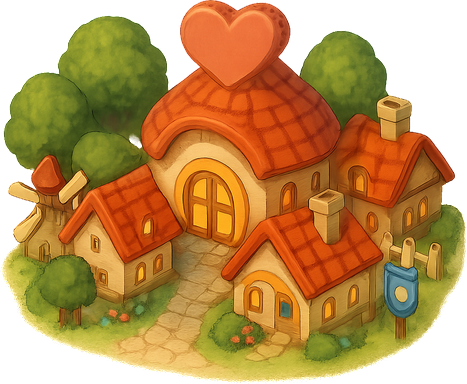
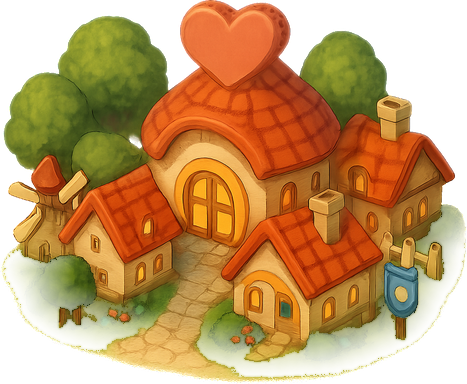
Miasteczko na mapie wtopione w teren
Jasny talerz trawy pod miasteczkiem blednie ku krawędzi i ciemnieje do
barwy trawy z mapy (tools/wtop_podstawe.py), zamiast odcinać się jak
naklejka.

Claude-Session: https://claude.ai/code/session_01MVogJn4DB8sWmRV7qMJoQR

diff --git a/tools/wtop_podstawe.py b/tools/wtop_podstawe.py
@@ -1,0 +1,33 @@
+# Wtapia podstawę budowli w teren: trawiasty „talerz" pod budynkami blednie ku krawędzi.
+# Użycie: python3 tools/wtop_podstawe.py wejscie.png wyjscie.png [szerokość zaniku w px, domyślnie 34]
+# Uruchamiać na obrazku z wsadu (tools/wsad_wczytaj.py), nie drugi raz na wyniku.
+import sys, numpy as np
+from PIL import Image
+from scipy import ndimage
+src, dst = sys.argv[1], sys.argv[2]
+szer = float(sys.argv[3]) if len(sys.argv) > 3 else 34
+im = np.asarray(Image.open(src).convert('RGBA')).astype(np.float32)
+rgb, a = im[..., :3] / 255, im[..., 3] / 255
+mx, mn = rgb.max(-1), rgb.min(-1)
+sat = np.where(mx > 0, (mx - mn) / np.maximum(mx, 1e-6), 0)
+r, g, b = rgb[..., 0], rgb[..., 1], rgb[..., 2]
+# „grunt": trawa (zielony/żółtozielony) i jasne, mało nasycone kamienie ścieżki
+trawa = (g >= r * 0.9) & (g > b * 1.15) & (mx > 0.25)
+kamien = (sat < 0.35) & (mx > 0.45) & (np.abs(r - g) < 0.12)
+grunt = (trawa | kamien) & (a > 0.5)
+H = a.shape[0]
+yy = np.arange(H)[:, None] / H
+dol = np.clip((yy - 0.45) / 0.2, 0, 1)            # tylko dolna część obrazka
+d = ndimage.distance_transform_edt(a > 0.5)       # odległość od przezroczystości
+zanik = np.clip(d / szer, 0, 1) ** 1.4
+nowe = np.where(grunt, a * (1 - dol * (1 - zanik)), a)
+# zmiękcz przejście między gruntem a resztą
+nowe = np.minimum(a, ndimage.gaussian_filter(nowe, 1.2) * (grunt | (dol == 0)) + nowe * ~(grunt | (dol == 0)))
+# jasna trawa talerza ciemnieje ku barwie trawy z mapy
+tr = (trawa & (a > 0.5)).astype(np.float32) * dol
+tr = ndimage.gaussian_filter(tr, 2)[..., None]
+cel = rgb * np.array([0.72, 0.86, 0.55])
+rgb2 = rgb * (1 - tr * 0.8) + cel * tr * 0.8
+out = im.copy(); out[..., :3] = rgb2 * 255
+out[..., 3] = np.clip(nowe, 0, 1) * 255
+Image.fromarray(out.astype(np.uint8)).save(dst)

diff --git a/STAN.md b/STAN.md
@@ -197,7 +197,9 @@ mieście albo kampanii.
   zmian, `MNOZNIK_FORTU`), obraz `public/miasto/*-fort.png`, grota
   i zbocze z `frakcje_przemaluj.py` — UWAGA: ten skrypt przemalowuje też
   inne budynki frakcji, niechciane zmiany cofnąć `git checkout`. Koszt
-  0,21 USD. Strona z etapami i obrazkami (artefakt „Pracownia") —
+  0,21 USD. Jasny „talerz" trawy pod miasteczkiem wyglądał jak naklejka —
+  `tools/wtop_podstawe.py` blednie go ku krawędzi i przyciemnia do trawy
+  mapy (szerokość zaniku 60). Reszta obiektów mapy: osobny wątek. Strona z etapami i obrazkami (artefakt „Pracownia") —
   użytkownik chce ją dostawać po każdym etapie.
 - **Plan dalej**: styl A (ekran walki) na mapę, bohatera, miasto
   i kampanię — użytkownik zauważył, że drewno i pergamin odstają od walki;
